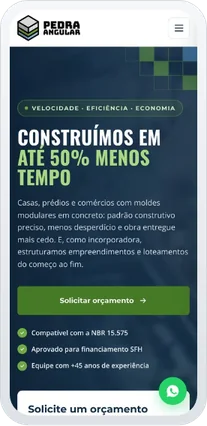
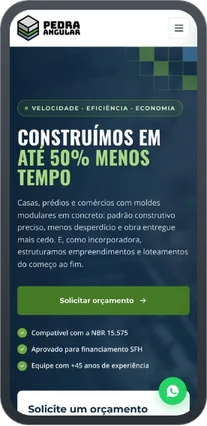
Prévia: aparelhos grafite com brilho dourado mais forte
Claude-Session: https://claude.ai/code/session_01FaB9b2Ap1KB4CRYebYN2kn

Changed region(s): [[0.0, 0.0, 1.0, 1.0]]

diff --git a/diagnostico.html b/diagnostico.html
@@ -19,7 +19,7 @@
 <meta name="twitter:title" content="Diagnóstico grátis da presença digital | Destrava">
 <meta name="twitter:description" content="Descubra em poucos minutos como sua empresa aparece no Google, no site, no Instagram e no WhatsApp. Diagnóstico de R$ 97, grátis fazendo agora.">
 <link rel="icon" href="/assets/img/favicon.svg" type="image/svg+xml">
-<link rel="stylesheet" href="css/home.css?v=31">
+<link rel="stylesheet" href="css/home.css?v=32">
 </head>
 <body>
 <a class="pular" href="#conteudo">Pular para o conteúdo</a>
@@ -68,10 +68,10 @@
     <p>Destrava faz parte do Grupo Undertake.</p>
   </div>
 </footer>
-<script src="js/config.js?v=31"></script>
-<script src="js/app.js?v=31"></script>
+<script src="js/config.js?v=32"></script>
+<script src="js/app.js?v=32"></script>
 <script src="js/three.min.js" defer></script>
 <script src="js/vanta.net.min.js" defer></script>
-<script src="js/home.js?v=31" defer></script>
+<script src="js/home.js?v=32" defer></script>
 </body>
 </html>

diff --git a/css/home.css b/css/home.css
@@ -358,7 +358,7 @@ img{display:block;max-width:100%}
 .casos-trilho.anima .caso-card:not(.visto) .caso-mock{opacity:0;transform:translateX(30px) scale(.97)}
 /* Aparelhos claros, com brilho atrás e flutuando */
 .caso-mock{position:relative;padding:4% 0 8%}
-.caso-mock::before{content:"";position:absolute;left:10%;right:5%;top:10%;bottom:5%;background:radial-gradient(closest-side,rgb(184 148 82 / .45),transparent);filter:blur(10px);z-index:0}
+.caso-mock::before{content:"";position:absolute;left:4%;right:0;top:0;bottom:0;background:radial-gradient(closest-side,rgb(184 148 82 / .6),transparent);filter:blur(14px);z-index:0}
 .caso-mock img{position:relative;z-index:1;filter:drop-shadow(0 26px 34px rgb(0 0 0 / .45))}
 .caso-mock .mock-note{width:88%}
 .caso-mock .mock-cel{position:absolute;right:0;bottom:2%;width:21%;z-index:2}

diff --git a/index.html b/index.html
@@ -49,7 +49,7 @@
 }
 </script>
 <link rel="icon" href="/assets/img/favicon.svg" type="image/svg+xml">
-<link rel="stylesheet" href="css/home.css?v=31">
+<link rel="stylesheet" href="css/home.css?v=32">
 </head>
 <body>
 <a class="pular" href="#conteudo">Pular para o conteúdo</a>
@@ -157,10 +157,10 @@
     <p>Destrava faz parte do Grupo Undertake.</p>
   </div>
 </footer>
-<script src="js/config.js?v=31"></script>
-<script src="js/app.js?v=31"></script>
+<script src="js/config.js?v=32"></script>
+<script src="js/app.js?v=32"></script>
 <script src="js/three.min.js" defer></script>
 <script src="js/vanta.net.min.js" defer></script>
-<script src="js/home.js?v=31" defer></script>
+<script src="js/home.js?v=32" defer></script>
 </body>
 </html>
